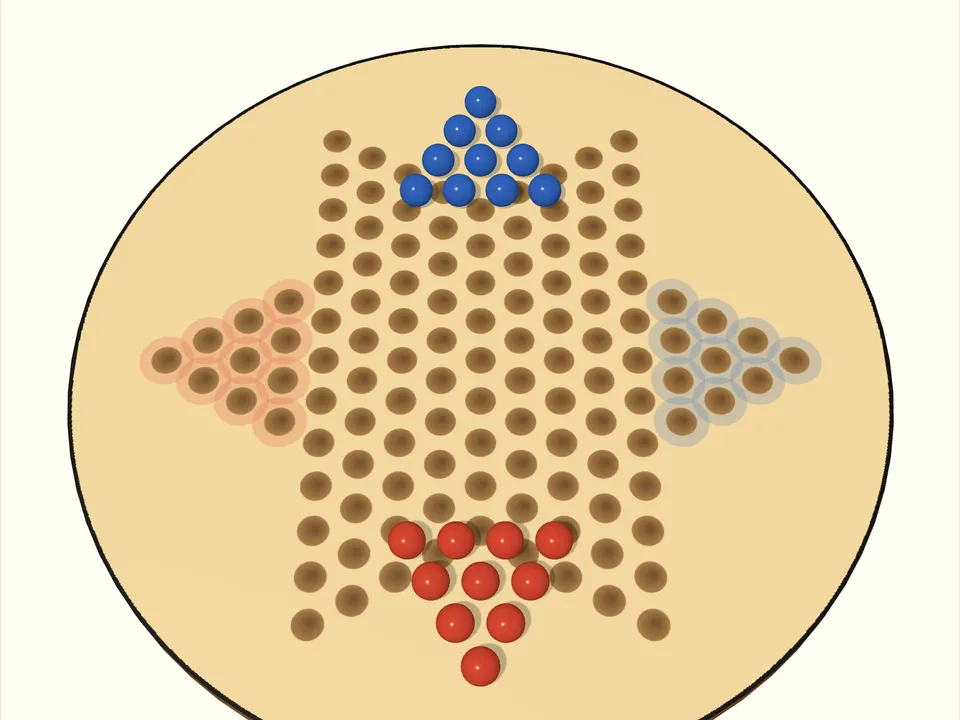
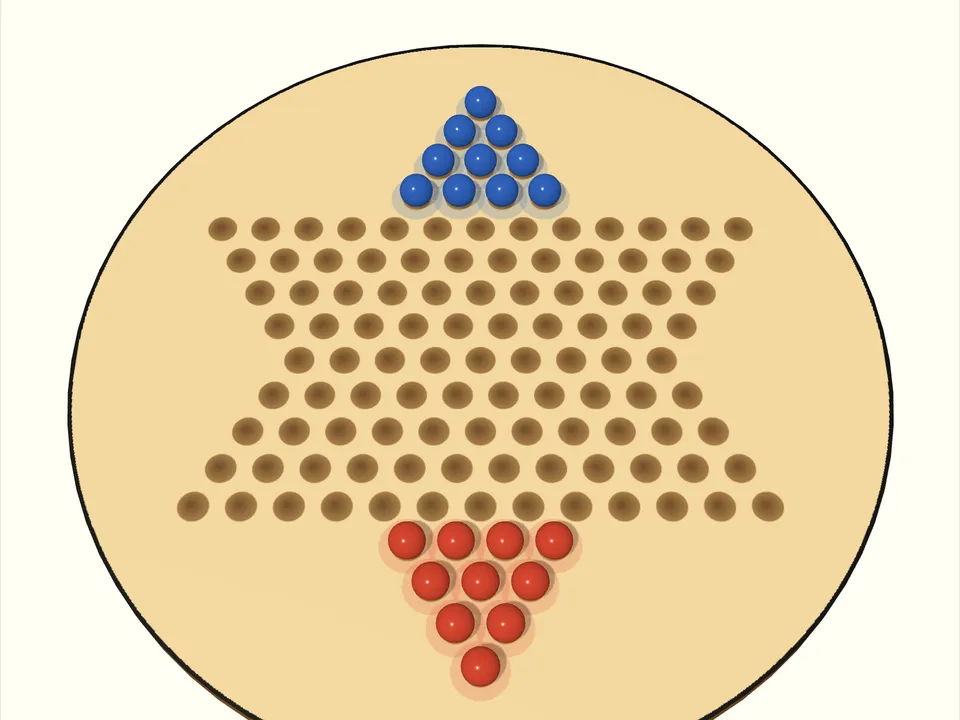
Chinese checkers: line the board's holes up with the marbles
The board picture was on a cylinder cap, which lays it a quarter turn
round, so the marbles stood off the drawn holes from the first move.

Claude-Session: https://claude.ai/code/session_01Uedx1uYtd54DPXXtQh77nN

Changed region(s): [[0.125, 0.1222, 0.875, 0.9778]]

diff --git a/src/games/starhop/view.ts b/src/games/starhop/view.ts
@@ -58,7 +58,11 @@ export class StarHopView extends TableView<State> {
     table.rotation.x = -Math.PI / 2;
     table.castShadow = false;
     const rim = this.standard({ color: "#8a5a2c", roughness: 0.5 });
-    this.add(new T.CylinderGeometry(5.6, 5.6, 0.26, 72), [rim, this.standard({ map: this.own(boardTexture()), roughness: 0.6 }), rim], 0, -0.13, 0);
+    this.add(new T.CylinderGeometry(5.6, 5.6, 0.26, 72), rim, 0, -0.132, 0);
+    // The face is a flat disc of its own: a cylinder's cap lays its picture a quarter turn round, which put the holes off the marbles.
+    const face = this.add(new T.CircleGeometry(5.6, 72), this.standard({ map: this.own(boardTexture()), roughness: 0.6 }), 0, 0, 0);
+    face.rotation.x = -Math.PI / 2;
+    face.castShadow = false;
     this.ball = this.own(new T.SphereGeometry(0.24, 26, 18));
     this.paints = STAR_COLORS.map((color) => this.standard({ color, roughness: 0.15, metalness: 0.1 }));
     const own = <R extends { dispose(): void }>(r: R) => this.own(r);

diff --git a/AGENTS.md b/AGENTS.md
@@ -56,3 +56,4 @@
 - Table soccer is foosball (a rod table, as in the photo the user sent), not flicked discs: do not turn it back. It runs in real time: `foosball/sim.ts` steps the table in fixed slices free of Three.js and DOM, the view runs it every frame (paused while a dialog is open or the page is hidden) and reports only goals through `onMove`; `rules.ts` knows nothing but the score. `view` in a `PointConfig` receives the level as its fifth argument for this.
 - Indian poker: one game is one pack of twenty played to the last card (ten rounds), whatever the chips; a side with nothing left still antes what it has and unmatched chips go back (the user asked: do not end the game early again). Each round the figure picks its card up from the table and raises it to its forehead (`lift`, a two-bone arm following the hand in `pose`); keep the cards large.
 - Foosball rods go exactly as far as the hand does (`slide` is in table units, each rod stops at its own `travel`; only the computer's hand has a speed limit through `pace`): the user asked. Pocket ball shows the cue behind the white ball while a pull is aimed (`FlickView.aimed`). Ludo tokens sharing a square stand side by side, smaller (`stands`). In Chinese checkers the point opposite counts as filled when every hole is taken and at least one marble there is the mover's, and `candidates` must keep sideways moves when few go forward, or the computer never fills its point.
+- The Chinese checkers board's face is a flat disc of its own (`CircleGeometry`): a cylinder cap lays its texture a quarter turn round, which put the drawn holes off the marbles. Do not map it onto the cylinder again.
